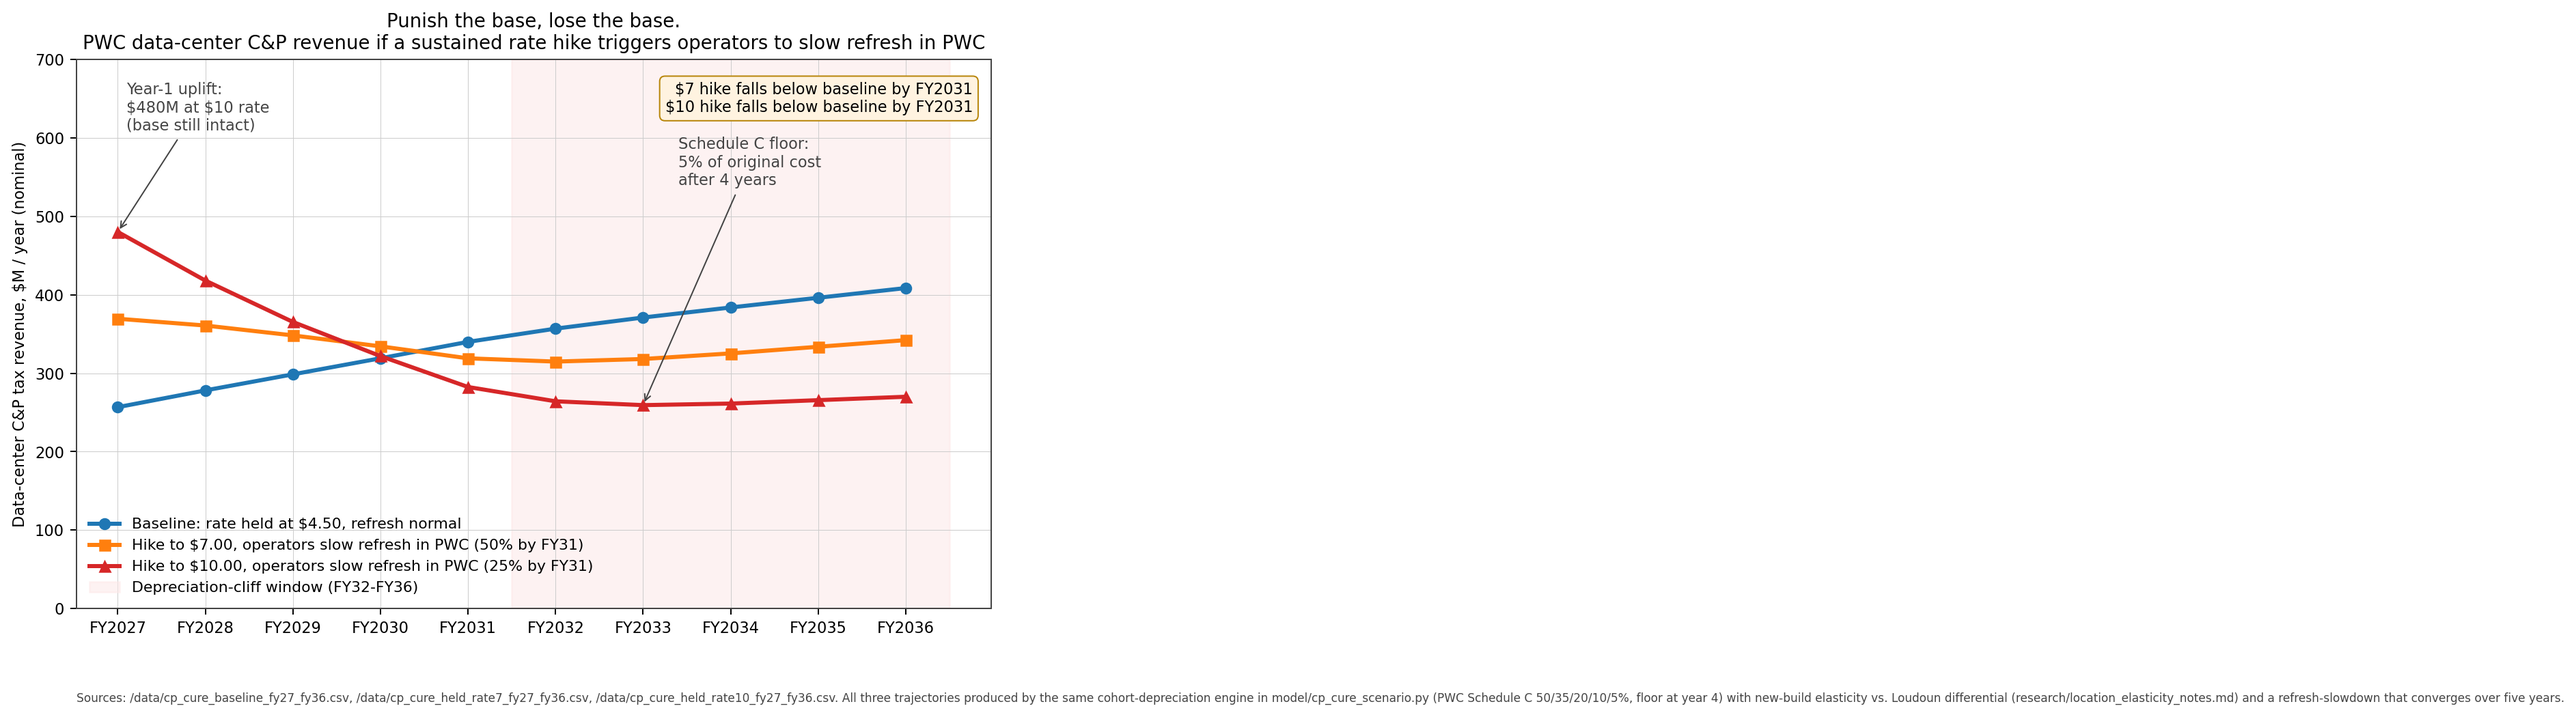
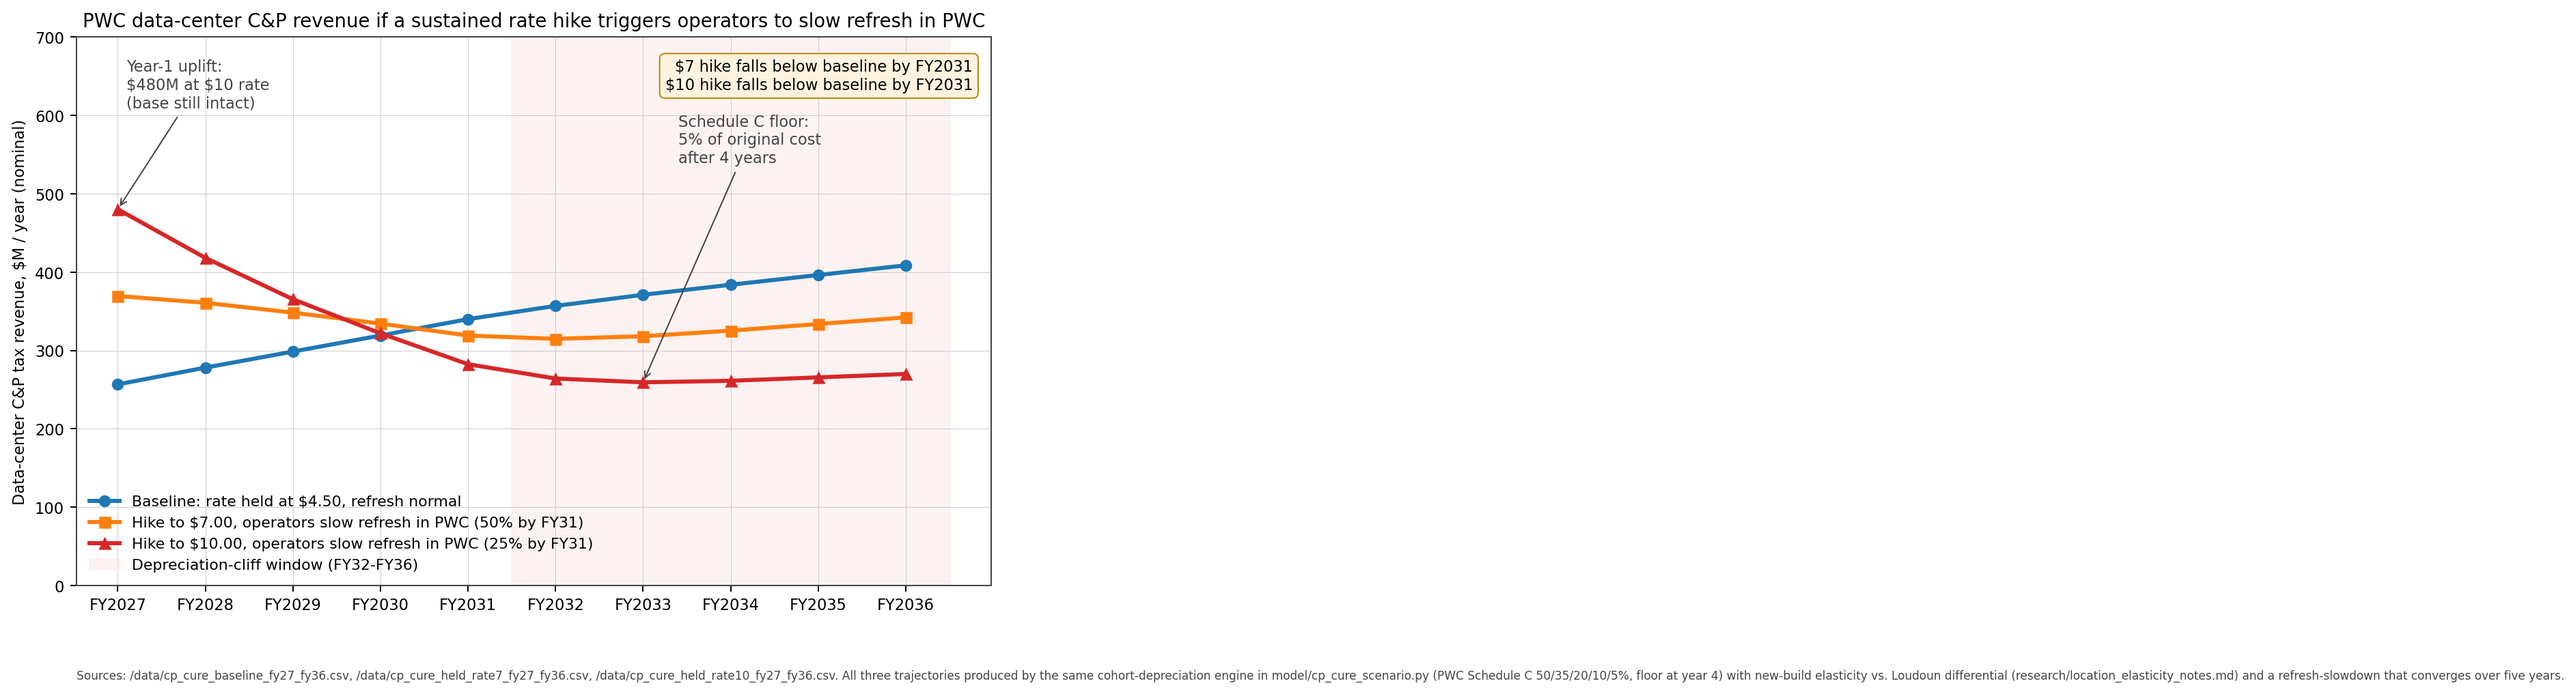
C&P Cure figures: drop opinionated titles
Removes the punchy first-line title from both fig_cp_cure_rate_wall and
fig_cp_cure_cliff; the descriptive subtitle now serves as the title.
Keeps the figures neutral-analytical, consistent with the public repo's
posture.

diff --git a/figures/make_figures.py b/figures/make_figures.py
@@ -1382,7 +1382,6 @@ def fig_cp_cure_rate_wall():
     ax.set_ylabel("Required C&P tax rate, $ per $100 of assessed value")
     ax.set_ylim(0, INFEASIBLE_DISPLAY + 4.0)
     ax.set_title(
-        "Year 1 fits. Year 2 you're on Mars.\n"
         "C&P rate PWC would have to set to plug the CAPEX-spillover deficit on data-center taxes alone"
     )
     # Legend below the plot, three columns, so the plot face stays clean.
@@ -1479,7 +1478,6 @@ def fig_cp_cure_cliff():
     ax.set_xlabel("")
     ax.set_ylim(0, 700)
     ax.set_title(
-        "Punish the base, lose the base.\n"
         "PWC data-center C&P revenue if a sustained rate hike triggers operators to slow refresh in PWC"
     )
     ax.legend(loc="lower left", fontsize=8.8)
